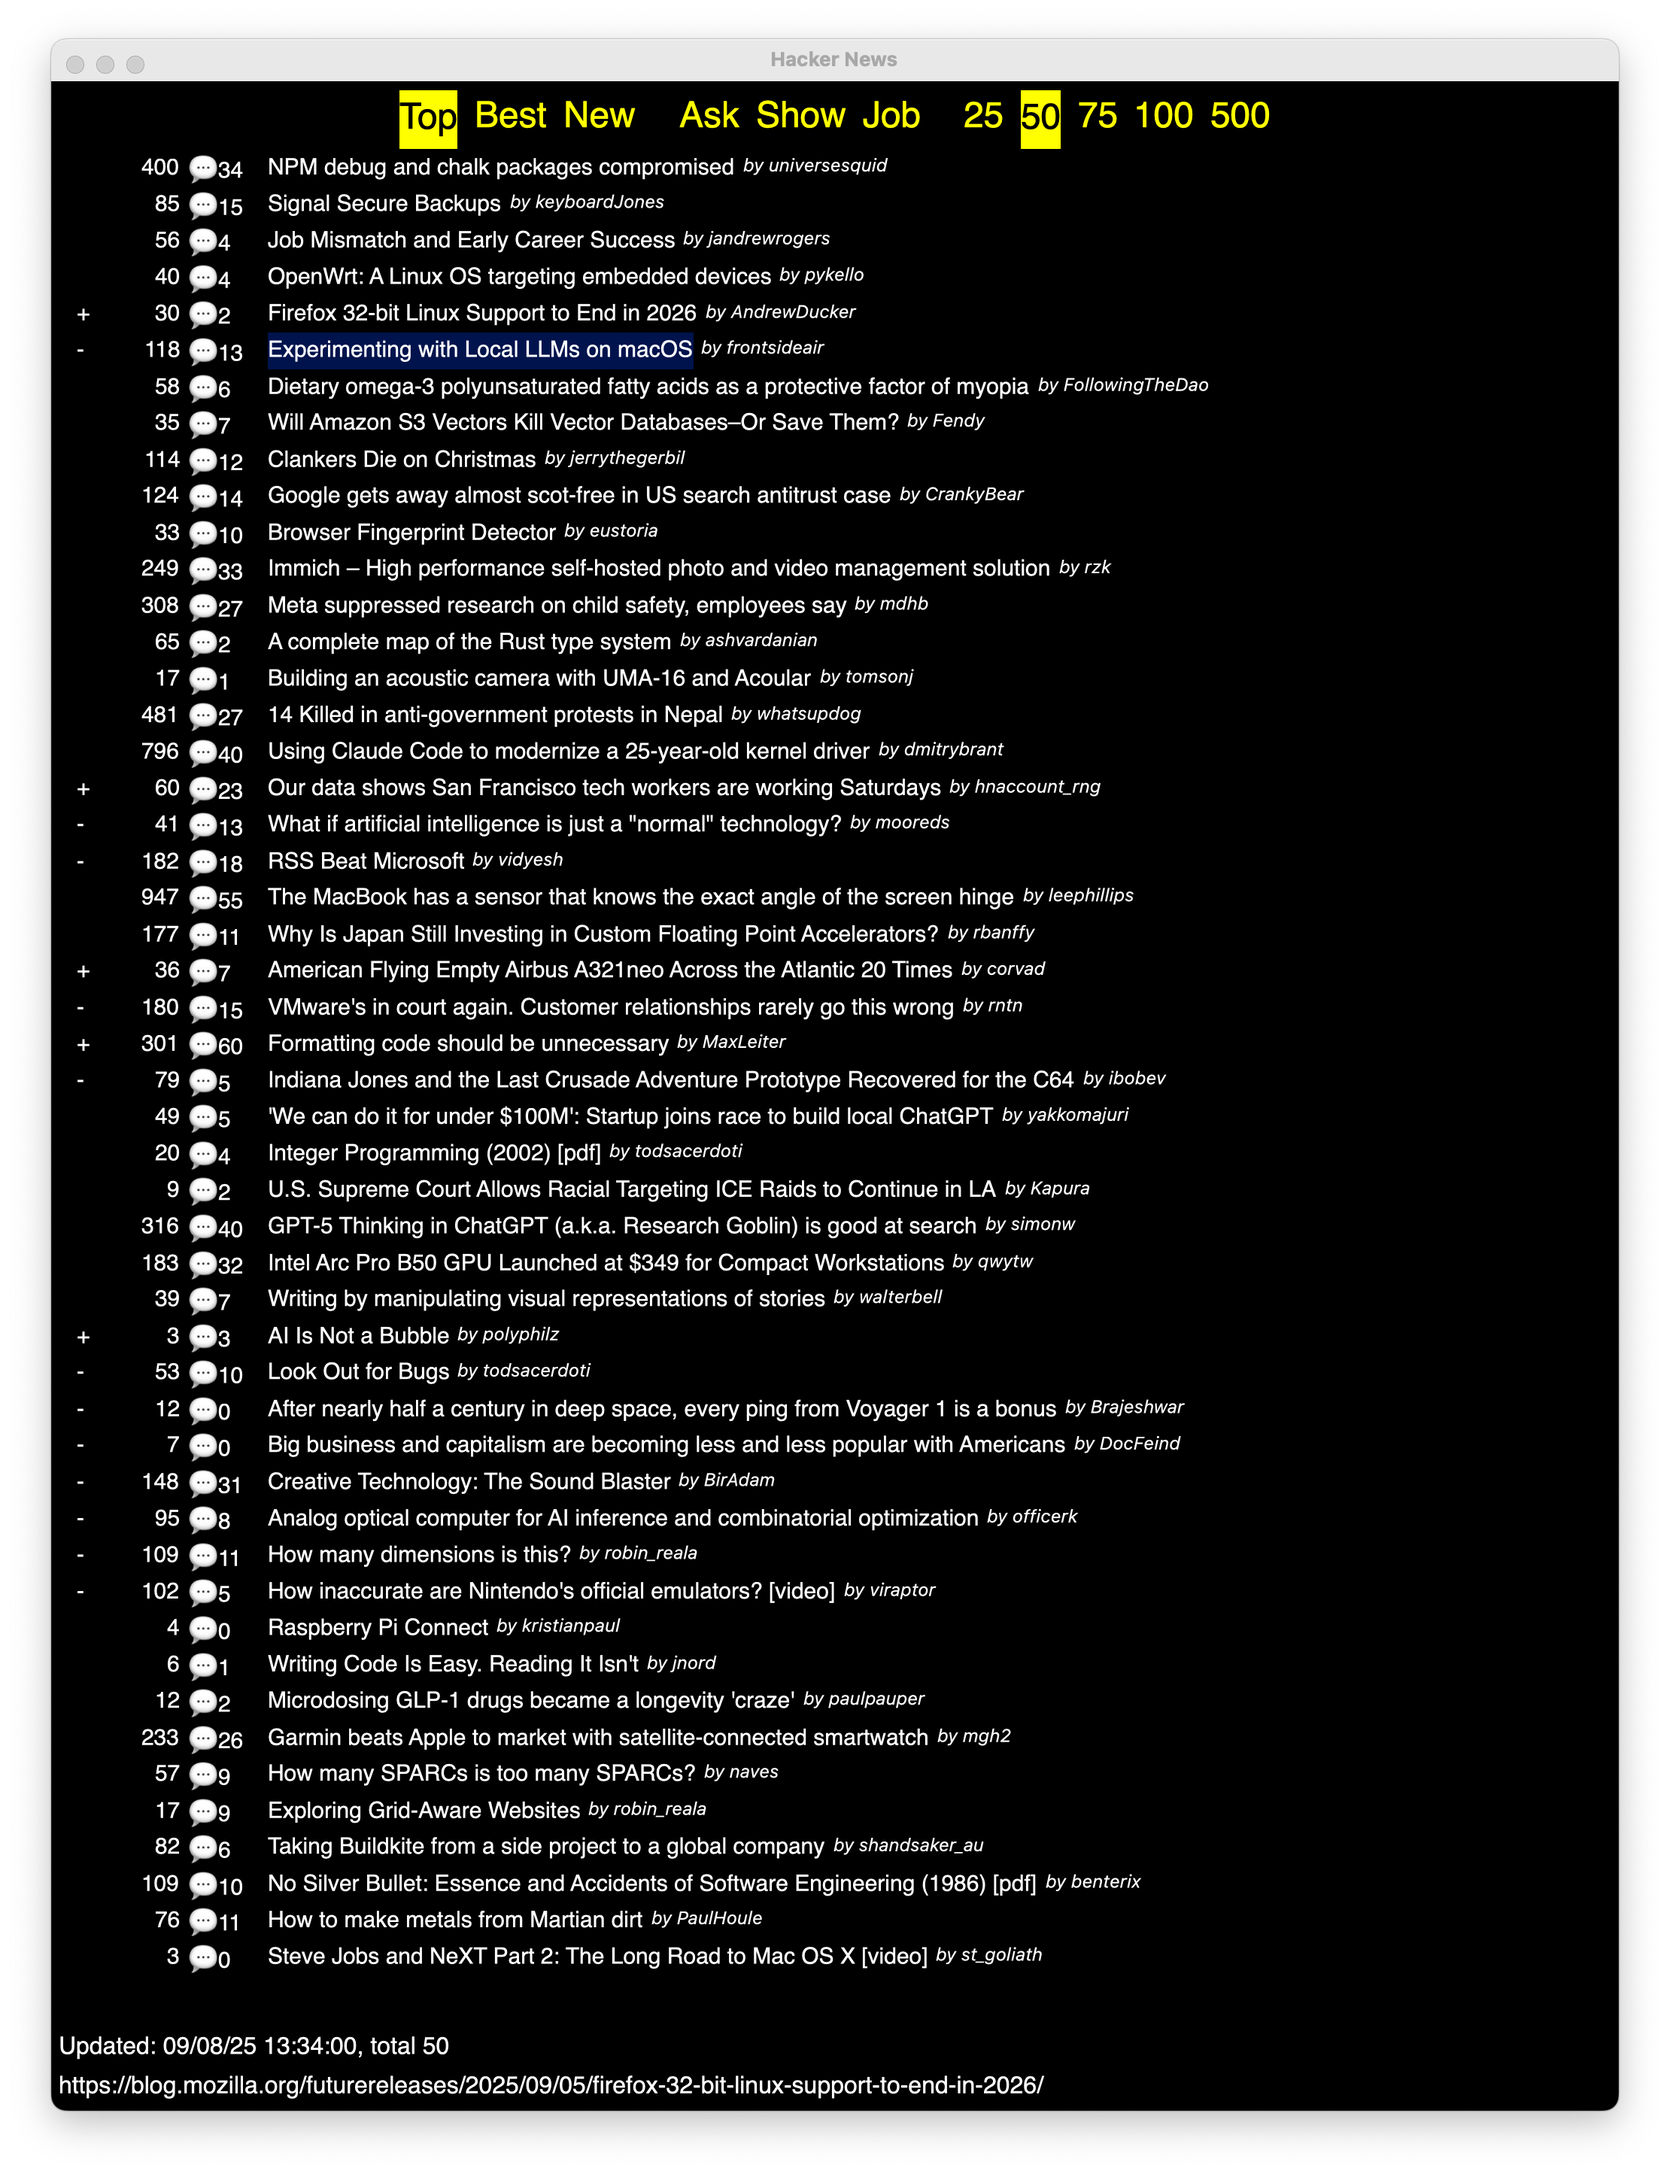
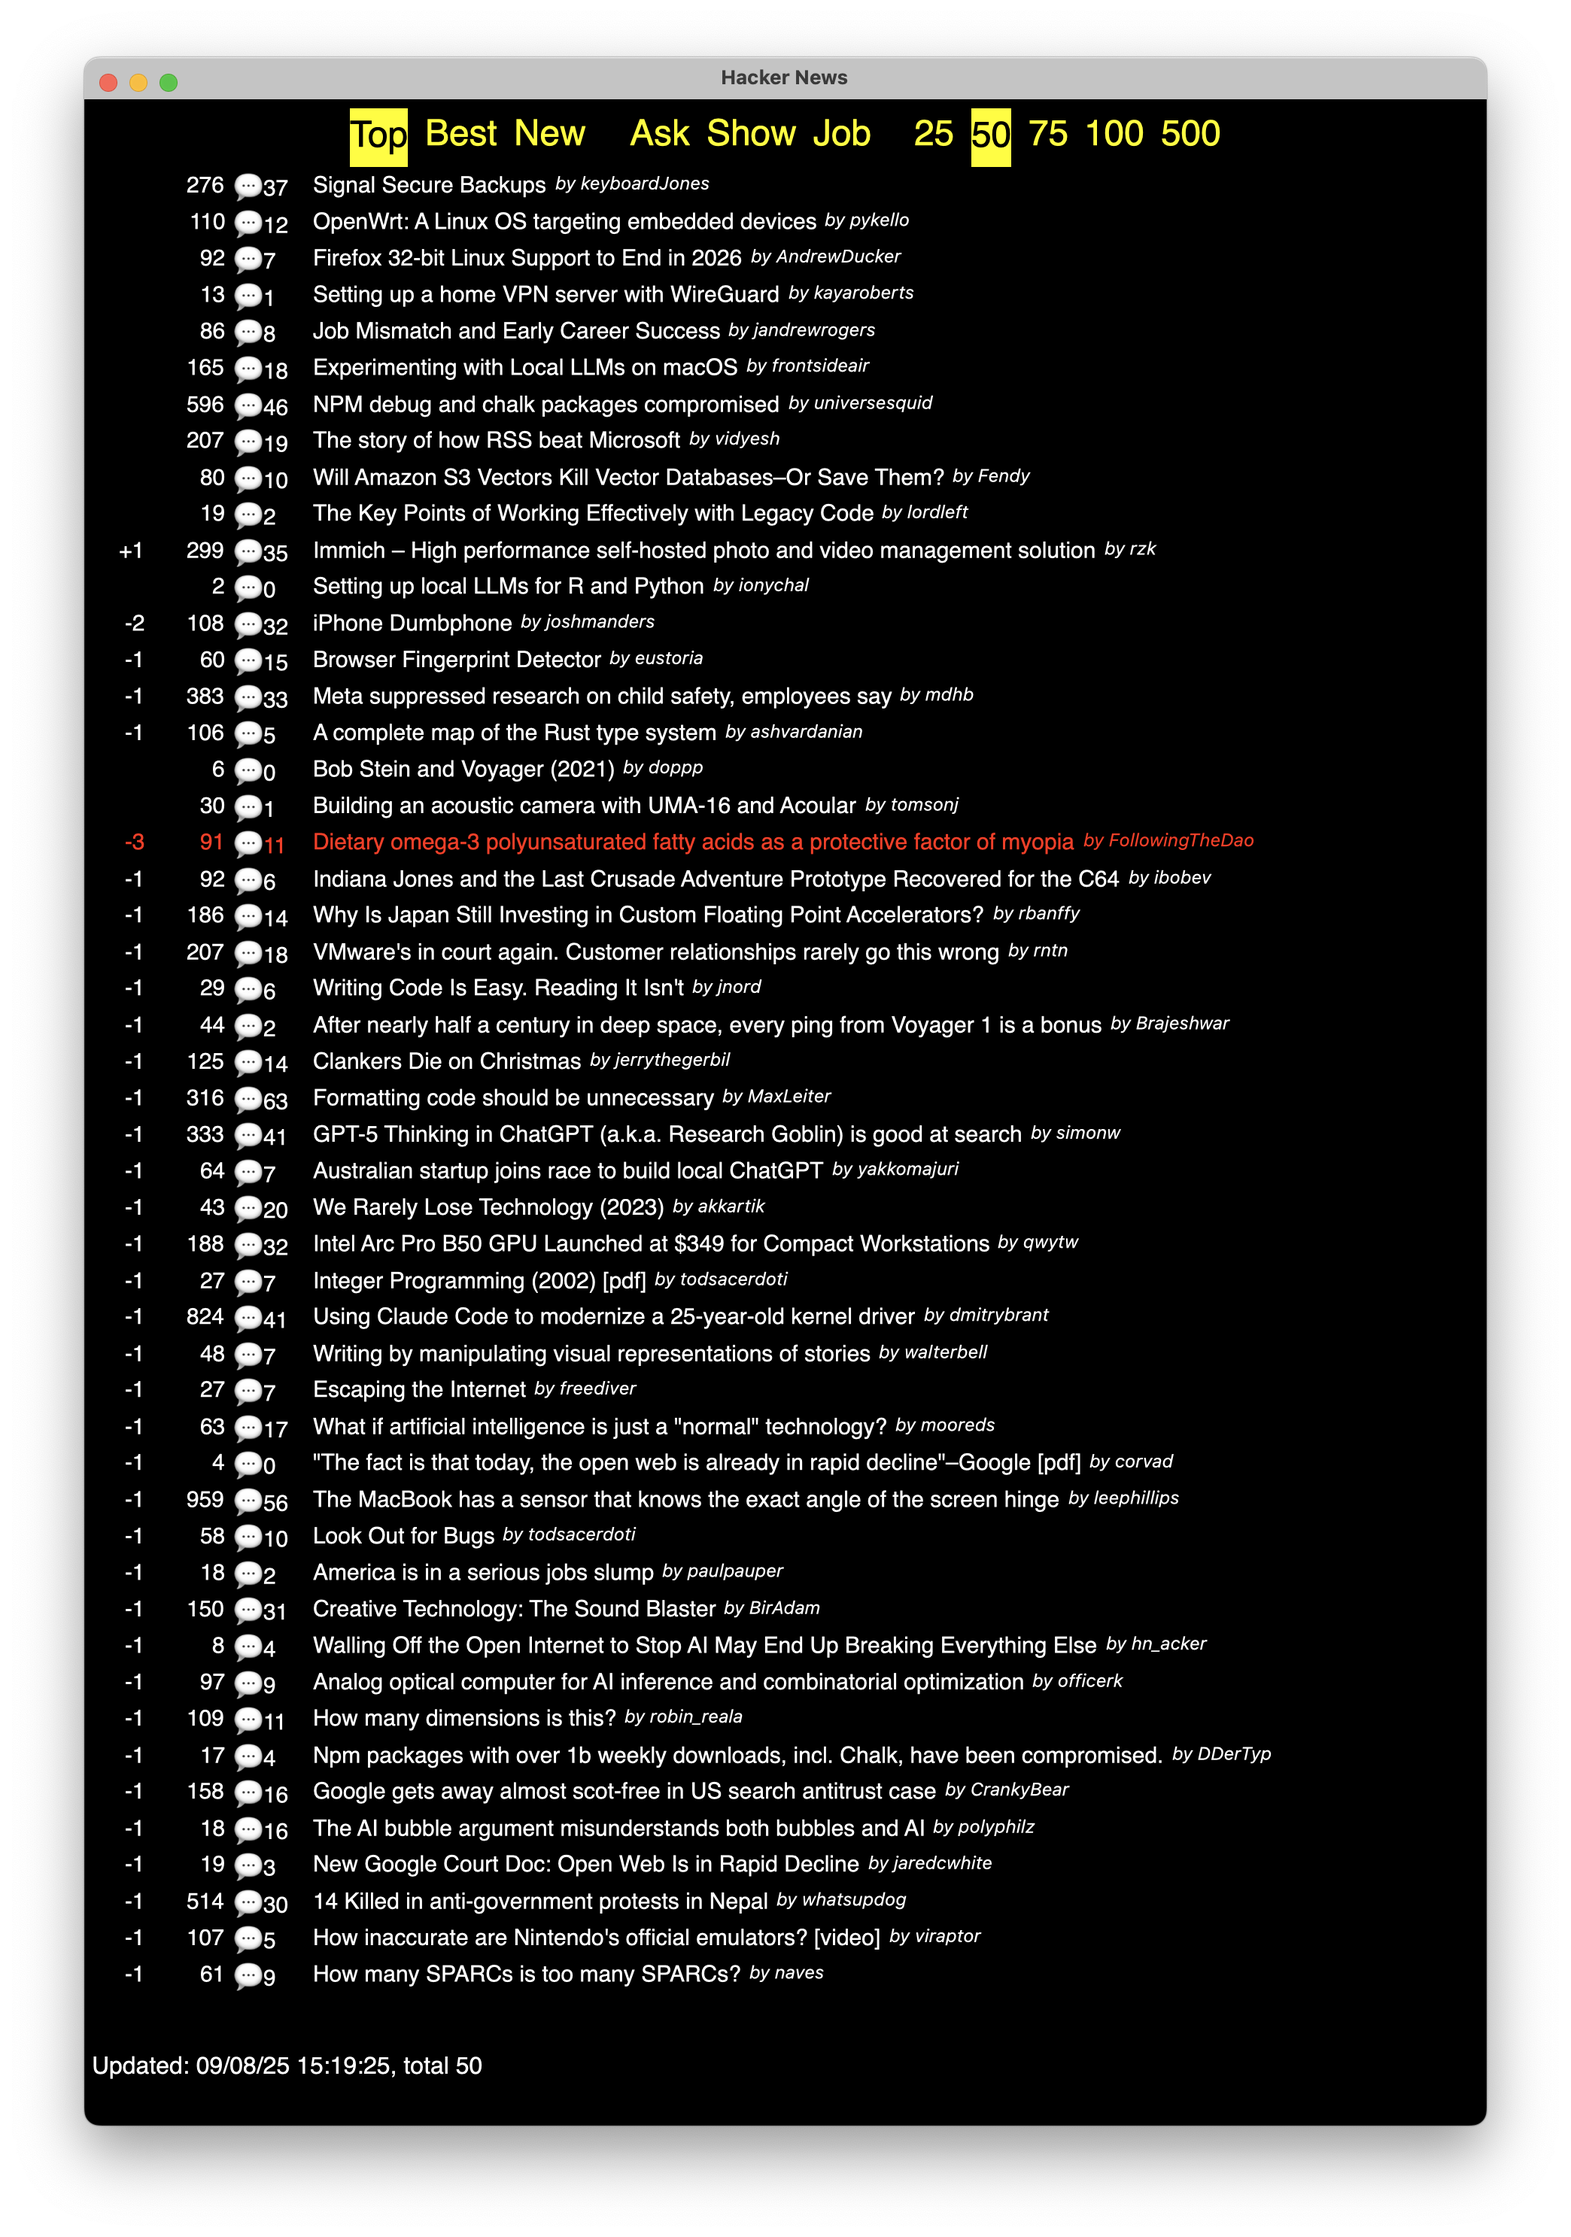
show number of ranks changed and color for > 2 rank changes

Changed region(s): [[0.0311, 0.0, 0.9962, 0.9965], [0.6537, 0.218, 0.6849, 0.2491], [0.6537, 0.1557, 0.6849, 0.1869]]

diff --git a/hacker-news-gpui/src/article.rs b/hacker-news-gpui/src/article.rs
@@ -1,6 +1,4 @@
 //! Article view.
-use std::cmp::Ordering;
-
 use crate::UrlHover;
 use gpui::{
     black, div, prelude::*, px, rems, rgb, solid_background, white, AppContext, AsyncApp, Entity,
@@ -15,27 +13,27 @@ pub struct ArticleView {
     score: SharedString,
     comments: SharedString,
     url: Option<SharedString>,
-    order_change: SharedString,
+    order_change_label: SharedString,
+    order_change: i64,
 }
 
 impl ArticleView {
-    pub fn new(
-        app: &mut AsyncApp,
-        item: Item,
-        order_change: Ordering,
-    ) -> anyhow::Result<Entity<Self>> {
+    pub fn new(app: &mut AsyncApp, item: Item, order_change: i64) -> anyhow::Result<Entity<Self>> {
         app.new(|_| Self {
             title: item.title.unwrap_or_default().into(),
             author: format!("by {}", item.by.clone()).into(),
             score: format!("{}", item.score,).into(),
             comments: format!("💬{}", item.kids.len()).into(),
             url: item.url.map(Into::into),
-            order_change: match order_change {
-                Ordering::Less => "-",
-                Ordering::Equal => "",
-                Ordering::Greater => "+",
+            order_change_label: if order_change == 0 {
+                String::new()
+            } else if order_change.is_positive() {
+                format!("+{order_change}")
+            } else {
+                format!("{order_change}")
             }
             .into(),
+            order_change,
         })
     }
 }
@@ -48,9 +46,9 @@ impl Render for ArticleView {
     ) -> impl gpui::IntoElement {
         let rank_change_col = div()
             .flex()
-            .w(rems(1.0))
-            .justify_start()
-            .child(self.order_change.clone());
+            .w(rems(1.5))
+            .justify_end()
+            .child(self.order_change_label.clone());
 
         let points_col = div()
             .flex()
@@ -90,8 +88,10 @@ impl Render for ArticleView {
                                     app.open_url(url.as_ref());
                                 }
                             })
-                            .on_hover(move |_hover, _window, app| {
-                                if let Some(entity) = weak_entity.upgrade() {
+                            .on_hover(move |hover, _window, app| {
+                                if !hover {
+                                    app.set_global::<UrlHover>(UrlHover(None));
+                                } else if let Some(entity) = weak_entity.upgrade() {
                                     let view = entity.read(app);
                                     app.set_global::<UrlHover>(UrlHover(view.url.clone()));
                                 }
@@ -113,6 +113,8 @@ impl Render for ArticleView {
             .font_family("Roboto, sans-serif")
             .text_size(px(15.0))
             .text_color(white())
+            .when(self.order_change > 2, |div| div.text_color(rgb(0x66ff1a)))
+            .when(self.order_change < -2, |div| div.text_color(rgb(0xff1a1a)))
             .w_full()
             .gap_x(px(5.0))
             .child(rank_change_col)

diff --git a/hacker-news-gpui/src/content.rs b/hacker-news-gpui/src/content.rs
@@ -1,6 +1,6 @@
 //! Main content view
 
-use std::{cmp::Ordering, collections::HashMap};
+use std::collections::HashMap;
 
 use crate::{article::ArticleView, ApiClientState, ArticleSelection};
 use async_compat::Compat;
@@ -62,8 +62,8 @@ impl Content {
                             let order_change = app
                                 .read_entity(&entity, |content, _app| {
                                     match content.article_ranks.get(&article.id) {
-                                        Some(rank) => rank.cmp(&index),
-                                        None => Ordering::Greater,
+                                        Some(rank) => (*rank as i64) - (index as i64),
+                                        None => 0,
                                     }
                                 })
                                 .unwrap();
